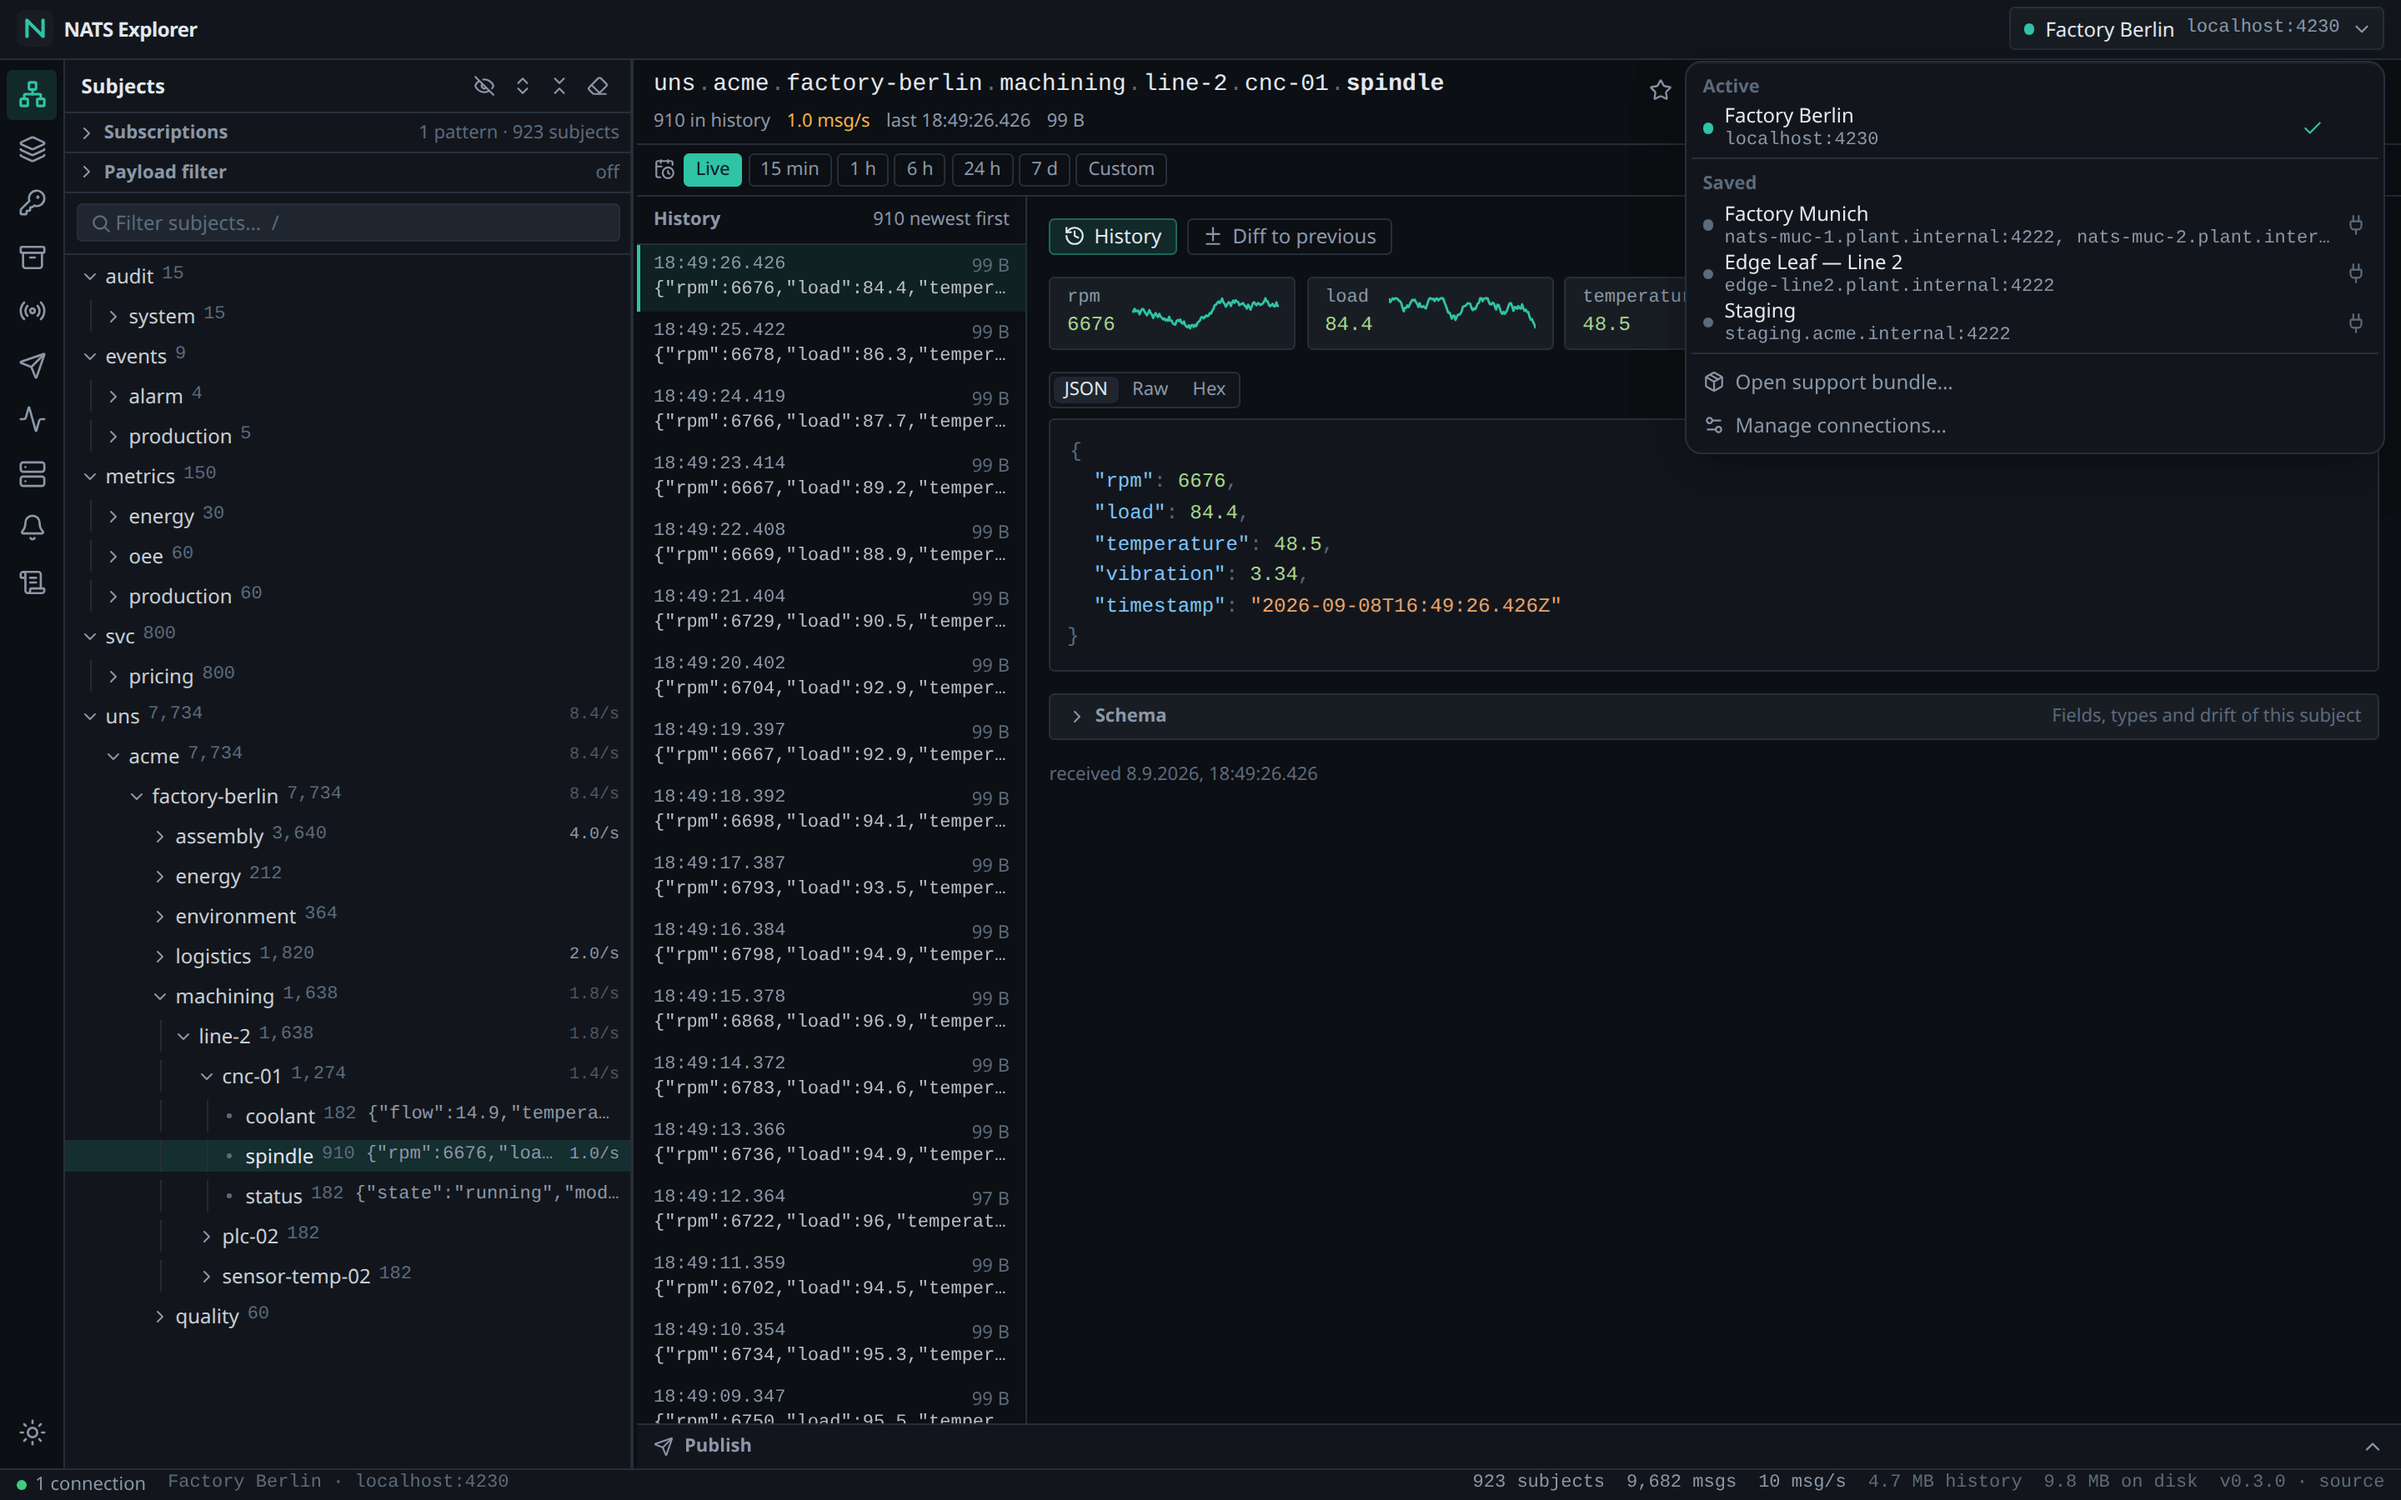
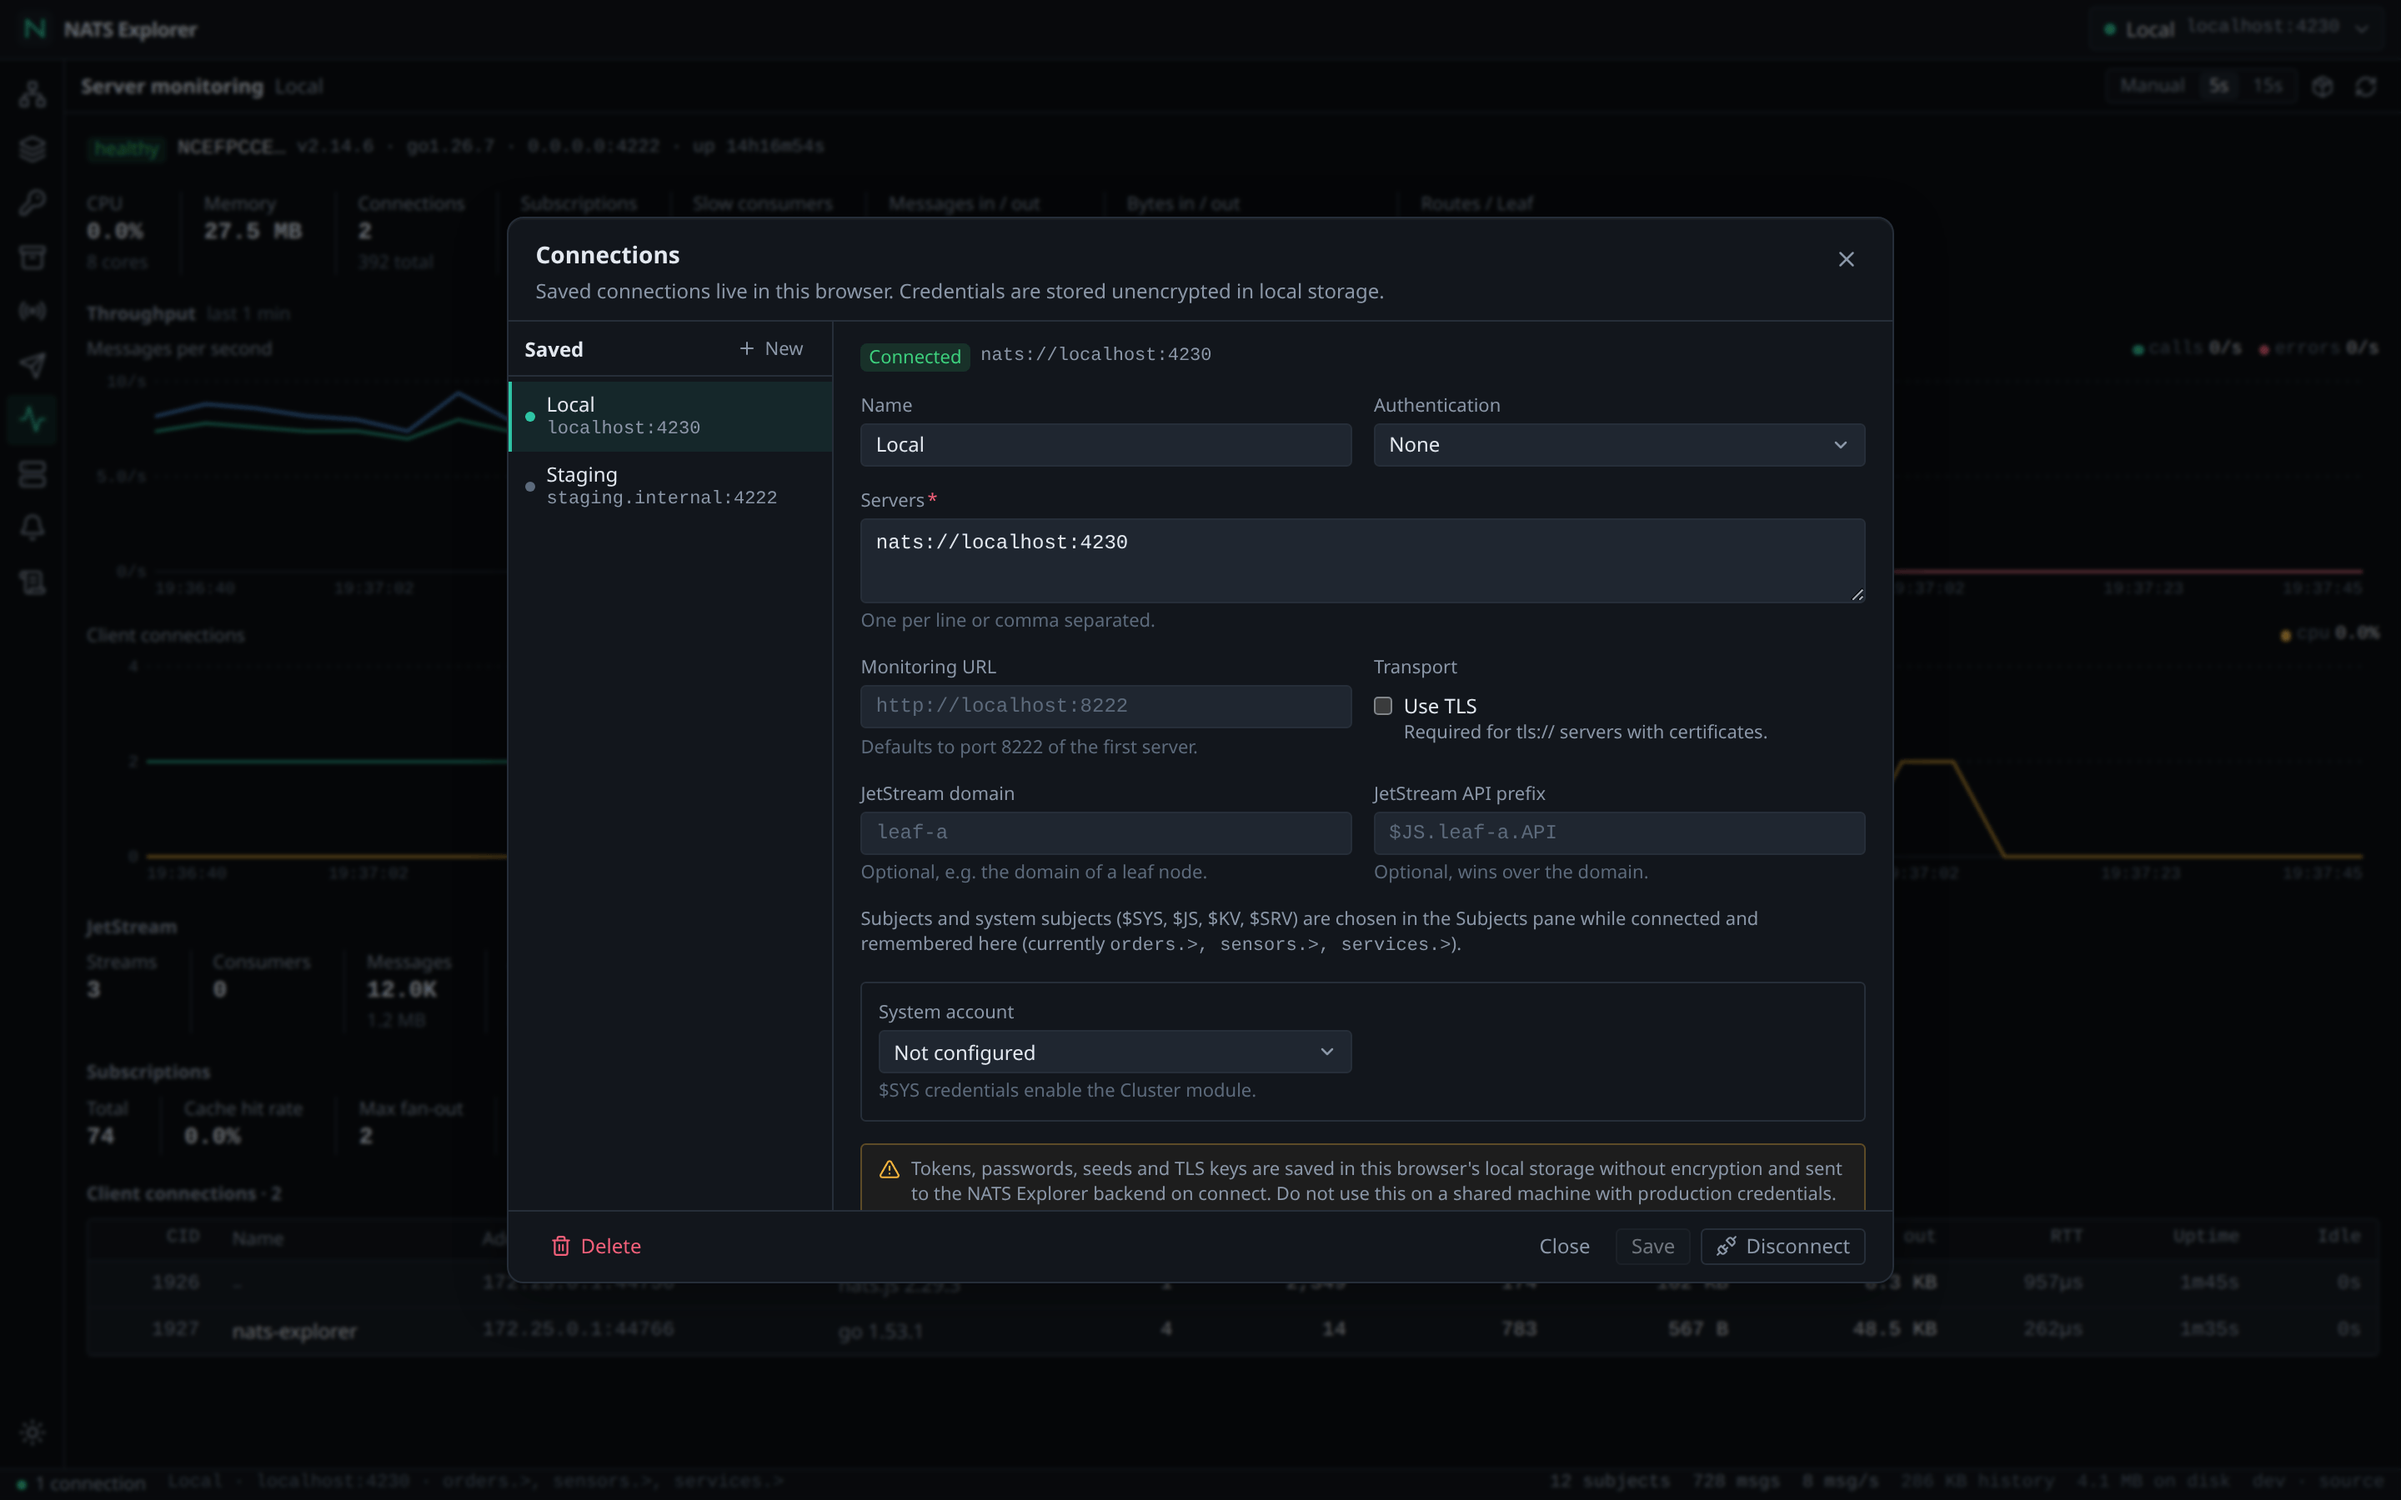
docs: screenshots without the factory simulation
The Key-Value and Requests screenshots still showed the "Factory Berlin"
connection with device-registry, KUKA robots and cmd.acme.factory-berlin.*
subjects, and the JetStream one the UNS stream. All seven are retaken
against neutral traffic: orders, sensors and services, a config store with
app-config, feature-flags and service-registry, and a pricing service the
request runner talks to.

Two of them were wrong beyond the data. The monitoring dashboard read a
different server than the one it was connected to, because the connection
carried no monitoring port and the fallback is 8222 on localhost; with the
port pinned the charts show real throughput instead of flat lines. The
connection dialog had its buttons covered by alert toasts, and the alerts
page was caught in a moment where nothing was firing.

diff --git a/CHANGELOG.md b/CHANGELOG.md
@@ -54,7 +54,7 @@ All notable changes to NATS Explorer. The format follows [Keep a Changelog](http
 - **The UI offers its source.** The status bar carries a quiet link with the version and the word `source` at its right end, and the login dialog carries it too, so it is reachable before anyone signs in. It leads to the source of the running build: `GET /api/app` now returns `commit` and a resolved `source`, the build scripts stamp the short commit next to the version, and the link becomes the tree at that commit -- or the release tag when only a version is stamped. A deployment of a modified version points `SOURCE_URL` (or a stamped `-X main.defaultSource=…`) at its own repository, which is what the AGPL asks of software people reach over a network. In the desktop app the link opens the system browser instead of navigating the webview away from the app.
 - **Licensed under the AGPL v3.0 or later** (previously Apache 2.0). Using, self-hosting and modifying the program stays free; a modified version that is distributed or offered over a network has to hand its users the source under the same license, so a closed hosted fork is not possible. The project name and marks stay outside the license, so a fork has to carry its own name.
 - **The server shuts down.** `createServer` returns a handler that can be closed, and closing it stops the subscription workers of every connection, disconnects from NATS, stops the alert engine and closes the persistent history. The binary does it on SIGINT/SIGTERM after draining the listener, so the last batch of the history is written instead of killed mid-write; the desktop app does it when the window closes, and every test case does it through one helper. A goroutine test covers it: without the shutdown a single server leaves about twenty goroutines behind.
-- **Repository cleaned up.** `go.mod` lost two dependencies an unfinished OIDC attempt had left behind, and CI now fails on an untidy `go.mod`; two unreachable Go functions and three unused client helpers are gone; five ESLint suppressions from before the move to Biome were replaced by Biome ignores with a reason, so `bun run lint` is free of warnings again; `.env.example` lists all twelve settings the server reads, the documentation site carries the features added since 0.2.0, the standalone compose file runs the released image with a volume for the history instead of building from source, and the screenshots are 27 % smaller after a lossless pass.
+- **Repository cleaned up.** `go.mod` lost two dependencies an unfinished OIDC attempt had left behind, and CI now fails on an untidy `go.mod`; two unreachable Go functions and three unused client helpers are gone; five ESLint suppressions from before the move to Biome were replaced by Biome ignores with a reason, so `bun run lint` is free of warnings again; `.env.example` lists all twelve settings the server reads, the documentation site carries the features added since 0.2.0, the standalone compose file runs the released image with a volume for the history instead of building from source, and all seven screenshots were retaken against neutral demo traffic (orders, sensors, services, a config store and a pricing service) instead of the factory simulation, at the same file size as before.
 - **Permanent download links.** A release now attaches every package a second time under a name without the version, so `releases/latest/download/nats-explorer-desktop-windows-x64-setup.exe` and its siblings always hand out the current build. The README and the installation guide link to them directly, and `SHA256SUMS.txt` covers both names. The copies were added to v0.2.0 as well, so the links work from today.
 - **Jumping to a subject unfolds the tree to it.** "Open subject" in a message panel, a row of a message list, a bookmark and an active alert now open the branches above the subject and scroll it into view, instead of selecting something the tree does not show.
 - **A row in a message list opens its payload.** Search hits, the messages below a branch and the merged list of several subjects showed only a preview and jumped to the subject on click. A click now shows the message under the list, with "Open subject" for the jump.
